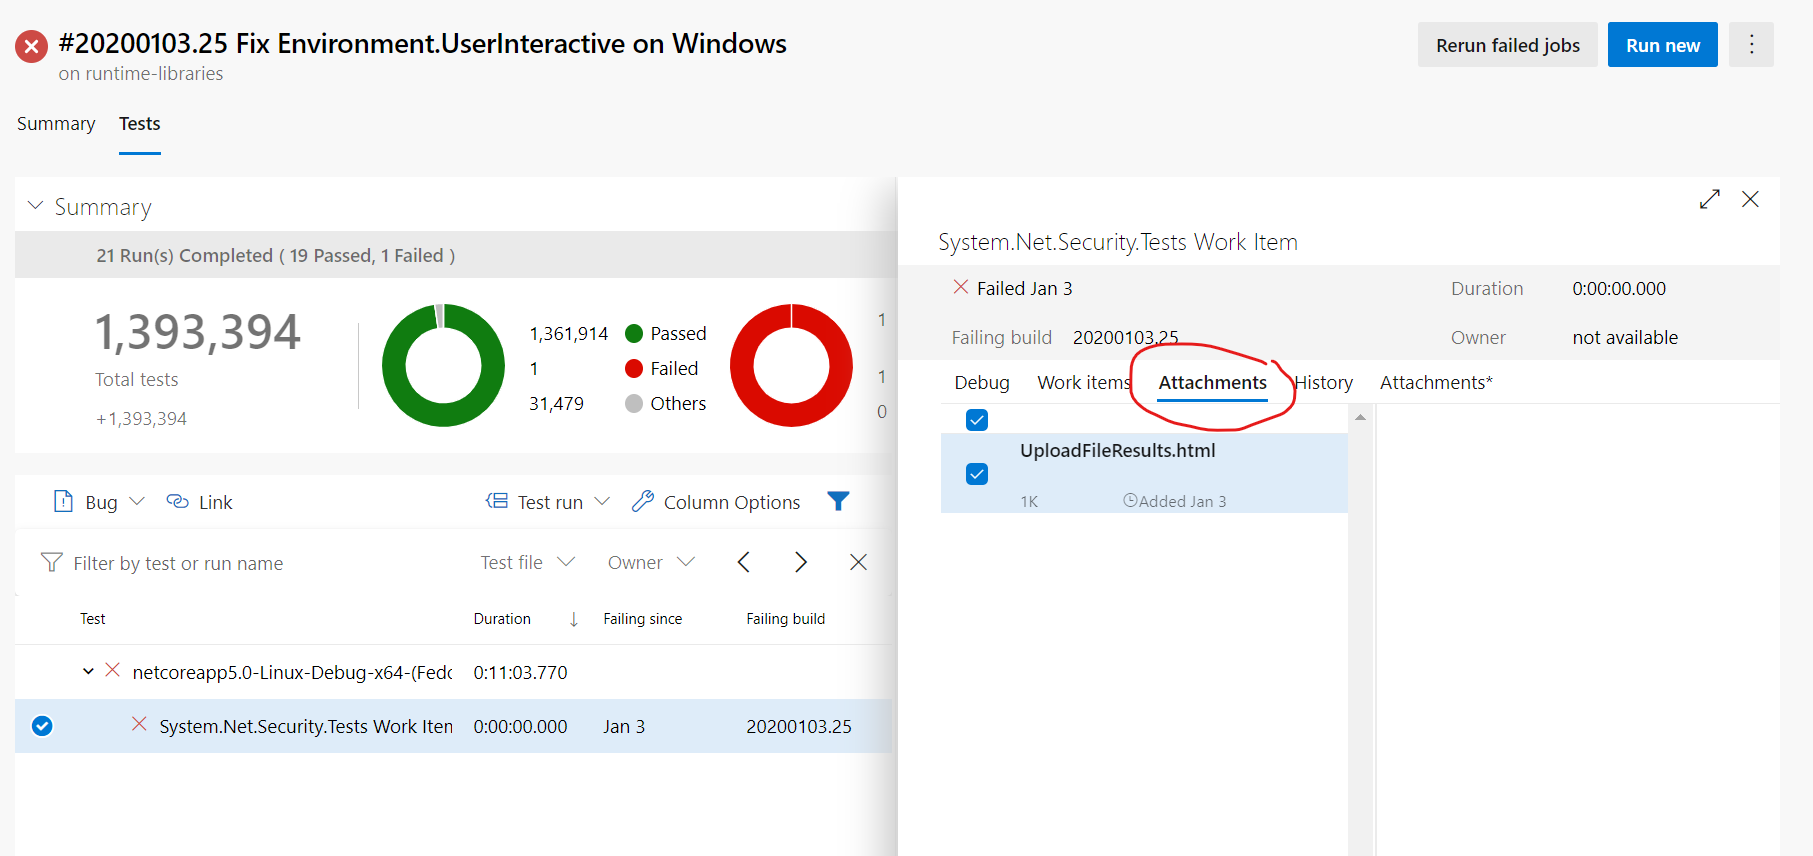
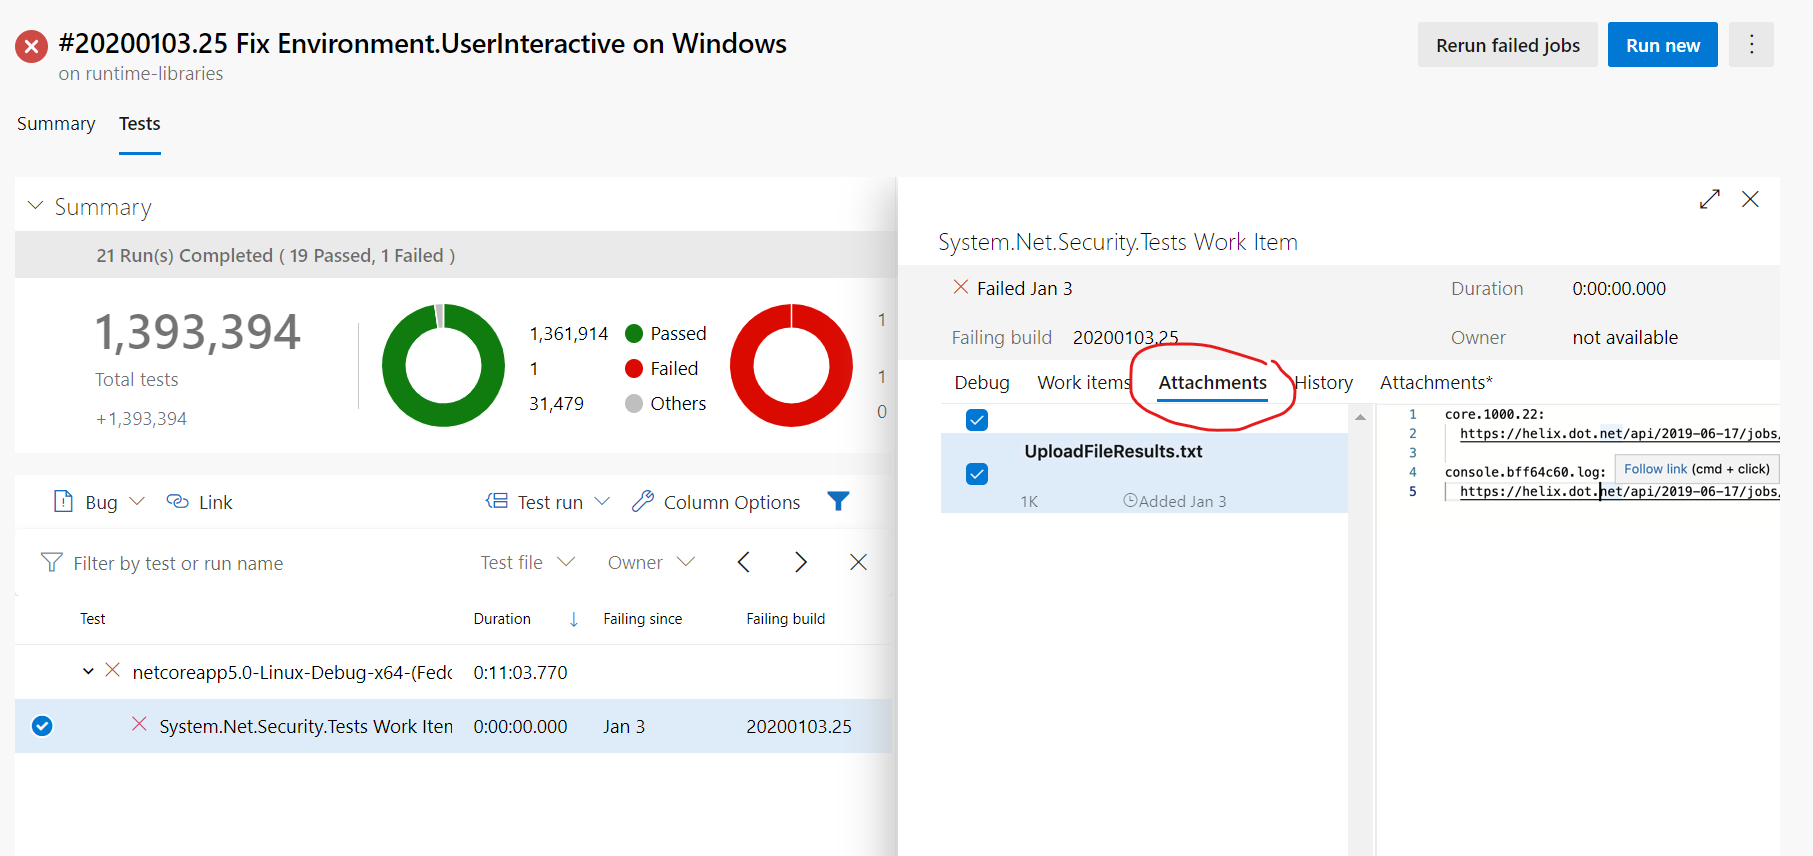
Update Dumps.md

Changed region(s): [[0.7722, 0.4556, 0.9884, 0.6075], [0.556, 0.5164, 0.6795, 0.5467]]

diff --git a/Documentation/Dumps/Dumps.md b/Documentation/Dumps/Dumps.md
@@ -12,8 +12,6 @@ To retrieve the dump files:
 
 ![Azure DevOps Attachments](DumpsAttachments.png)
 
-3. Click on the `Attachments` tab (not `Attachments*`) to see the UploadFileResults.html. Click on that file to download it. 
+3. Click on the `Attachments` tab (not `Attachments*`) to see the UploadFileResults.txt. Click on that file to open the preview.
 
-4. Open the UploadFileResults.html file. There, you will find a list of files that link back to the file that was uploaded to Azure Storage. From there, you can download the dump files or log files or other files that were uploaded as a result from the work item. 
-
-![Upload File Links](DumpsUploadFileLinks.png)
+4. You will find a list of files that link back to the file that was uploaded to Azure Storage. From there, you can download the dump files or log files or other files that were uploaded as a result from the work item. 
